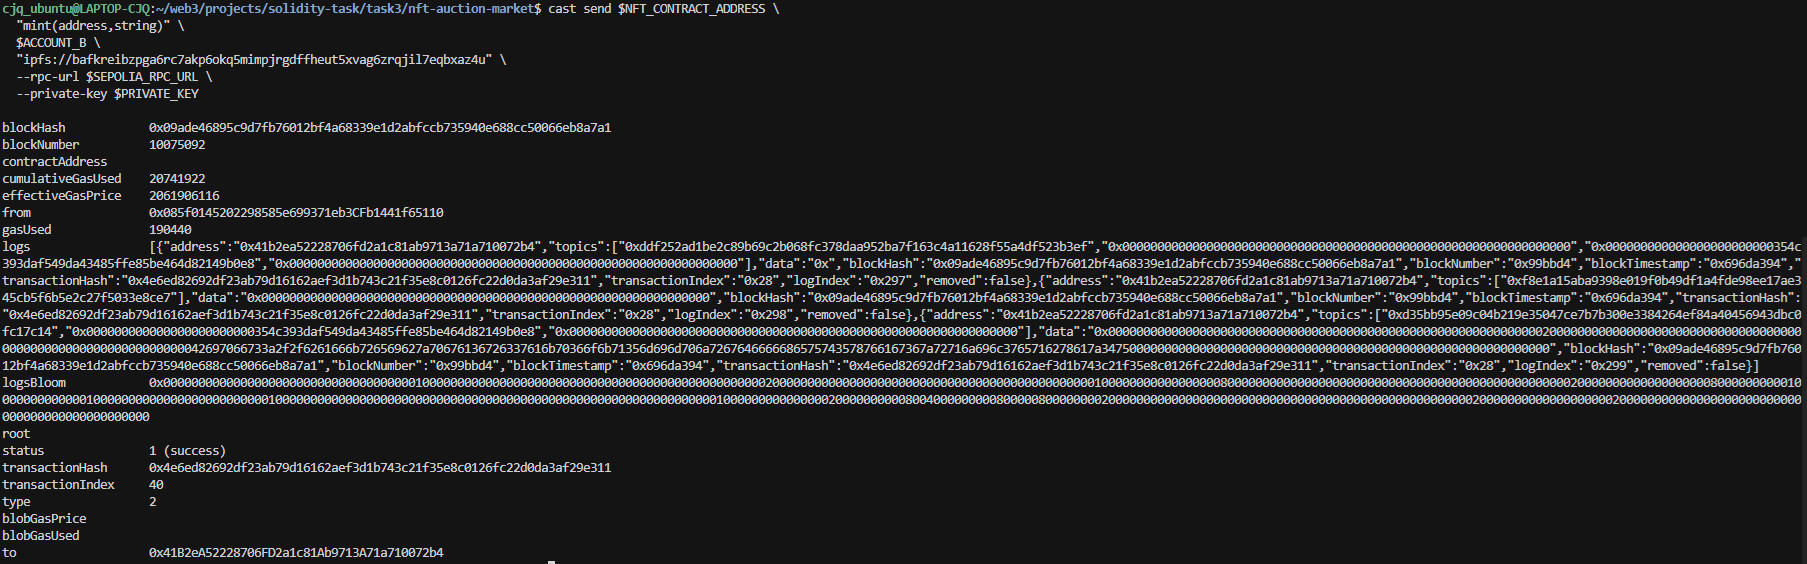
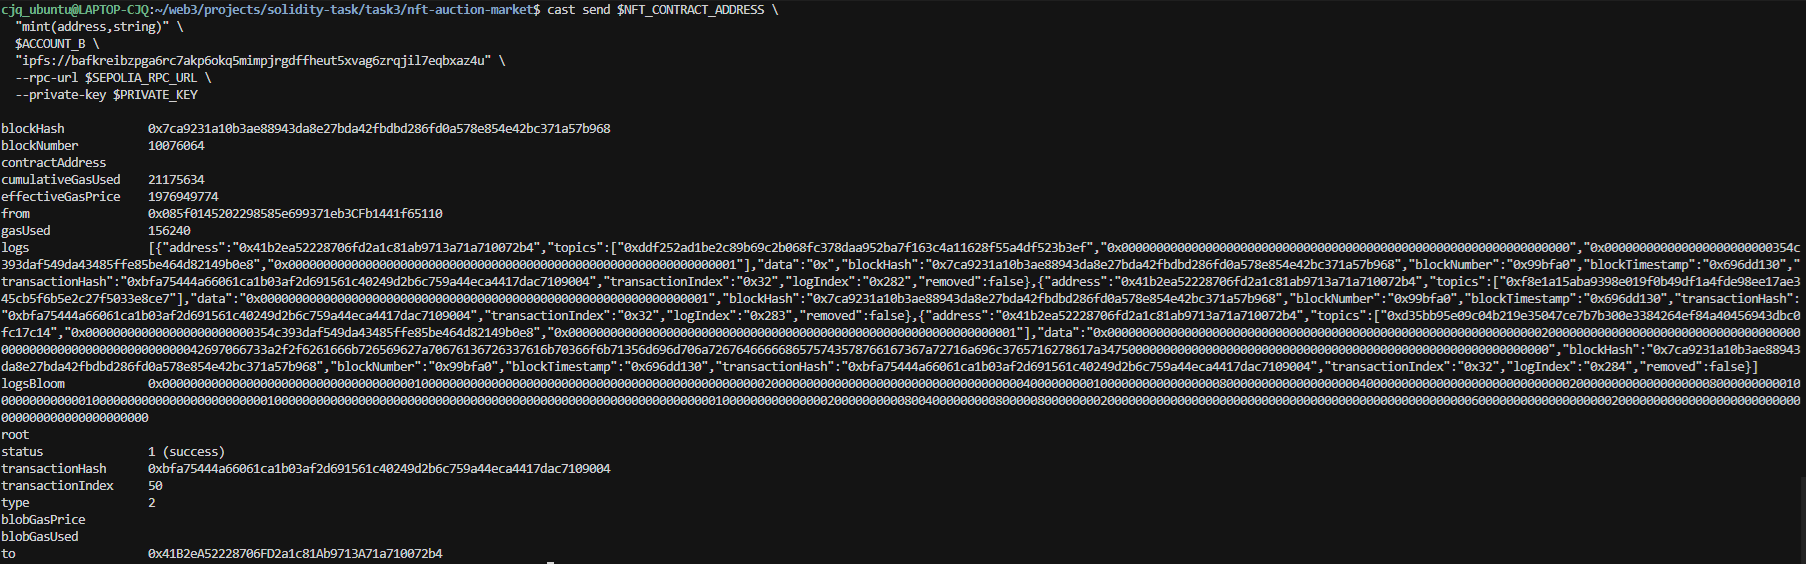
更新TEST_REPORT.md，修正交易哈希、区块号和Gas使用量，新增Token ID信息，确保测试结果的准确性。同时，更新Etherscan链接和相关截图，反映最新的交易状态和NFT铸造情况。

Changed region(s): [[0.0, 0.211, 1.0, 0.9947], [0.0, 0.0, 0.4341, 0.1809], [0.062, 0.9645, 0.2481, 0.9947]]

diff --git a/task3/nft-auction-market/TEST_REPORT.md b/task3/nft-auction-market/TEST_REPORT.md
@@ -225,17 +225,19 @@ cast send $NFT_CONTRACT_ADDRESS \
 
 **测试结果**：
 ```
-交易哈希: 0x4e6ed82692df23ab79d16162aef3d1b743c21f35e8c0126fc22d0da3af29e311
+交易哈希: 0xbfa75444a66061ca1b03af2d691561c40249d2b6c759a44eca4417dac7109004
 交易状态: ✅ 成功 (status: 1)
-区块号: 10075092
-Gas 使用量: 190,440
+区块号: 10076064
+Gas 使用量: 156,240
+Token ID: 1
 元数据 URI: ipfs://bafkreibzpga6rc7akp6okq5mimpjrgdffheut5xvag6zrqjil7eqbxaz4u
 
-Etherscan: https://sepolia.etherscan.io/tx/0x4e6ed82692df23ab79d16162aef3d1b743c21f35e8c0126fc22d0da3af29e311
+Etherscan: https://sepolia.etherscan.io/tx/0xbfa75444a66061ca1b03af2d691561c40249d2b6c759a44eca4417dac7109004
 
 事件日志:
-- Transfer 事件: NFT 从零地址转移到 Account B (0x354c393daf549da43485ffe85be464d82149b0e8)
-- TokenURI 设置事件: Token ID 0 的 URI 已设置为 ipfs://bafkreibzpga6rc7akp6okq5mimpjrgdffheut5xvag6zrqjil7eqbxaz4u
+- Transfer 事件: NFT 从零地址转移到 Account B (0x354c393daf549da43485ffe85be464d82149b0e8)，Token ID = 1
+- TokenURI 设置事件: Token ID 1 的 URI 已设置为 ipfs://bafkreibzpga6rc7akp6okq5mimpjrgdffheut5xvag6zrqjil7eqbxaz4u
+- NFTMinted 事件: Token ID 1 已成功铸造
 ```
 
 **截图**：
@@ -243,7 +245,7 @@ Etherscan: https://sepolia.etherscan.io/tx/0x4e6ed82692df23ab79d16162aef3d1b743c
 > 1. **终端命令执行结果**：显示 `cast send` 命令的完整输出（包含交易哈希、状态、Gas 使用量等）
 
   ![cast-send](./img/cast-send-nft-mint.png)
-> 2. **Etherscan 交易详情页**：访问 [交易链接](https://sepolia.etherscan.io/tx/0x4e6ed82692df23ab79d16162aef3d1b743c21f35e8c0126fc22d0da3af29e311) 并截图，显示：
+> 2. **Etherscan 交易详情页**：访问 [交易链接](https://sepolia.etherscan.io/tx/0xbfa75444a66061ca1b03af2d691561c40249d2b6c759a44eca4417dac7109004) 并截图，显示：
 >    - 交易状态（Success ✅）
 >    - 交易详情（From/To 地址、Gas Used、区块号等）
 >    - 事件日志（Transfer 和 TokenURI 事件）
@@ -254,16 +256,16 @@ Etherscan: https://sepolia.etherscan.io/tx/0x4e6ed82692df23ab79d16162aef3d1b743c
 #### 测试 4.2.3：查询 NFT 信息
 
 ```bash
-# 查询 NFT 所有者（Token ID 0）
+# 查询 NFT 所有者（Token ID 1）
 cast call $NFT_CONTRACT_ADDRESS \
   "ownerOf(uint256)(address)" \
-  0 \
+  1 \
   --rpc-url $SEPOLIA_RPC_URL
 
-# 查询 NFT 元数据（Token ID 0）
+# 查询 NFT 元数据（Token ID 1）
 cast call $NFT_CONTRACT_ADDRESS \
   "tokenURI(uint256)(string)" \
-  0 \
+  1 \
   --rpc-url $SEPOLIA_RPC_URL
 ```
 
